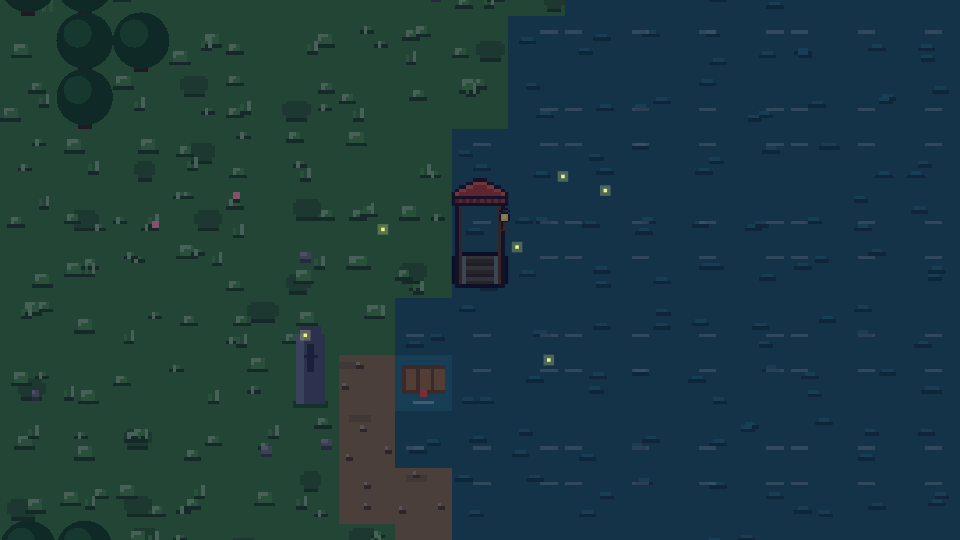
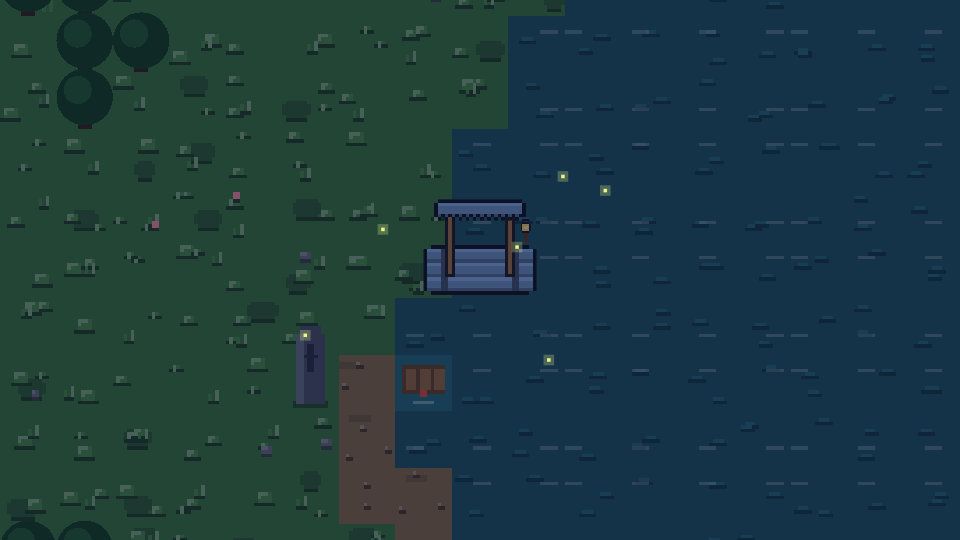
fix(cozy): balsa ancha con toldo bajo y jinete sentado al pescar
- vida_balsa pasa a 32x16: tres troncos largos atados, mas ancha que alta.
- El techo es un toldo de tela plano (vida_raft_roof 32x6) sobre dos
  postes cortos (vida_raft_posts); el farol cuelga del poste derecho.
- Balsa y toldo usan sprites neutros teñidos con modulate: la pintura
  conserva su color (azul queda azul) y sin pintura se ven madera y tela.
- Pescando desde la balsa el jinete se sienta bajo el toldo (pose
  derivada del sprite del heroe); navegando queda de pie delante.
- Icono del toldo en el panel BALSA; preview cozy_raft_decor regenerada.

Changed region(s): [[0.4375, 0.3259, 0.5625, 0.563]]

diff --git a/lib/features/world/presentation/map/cozy_layer.dart b/lib/features/world/presentation/map/cozy_layer.dart
@@ -47,46 +47,53 @@ class CozyLayer {
     }
   }
 
-  /// The raft sprite [raft] at (x, y) (centre) with the decorations of
-  /// [life]: paint tint, roof above and lantern at the corner.
+  /// The raft deck [raft] (32 x 16, two tiles wide) centred on (x, y),
+  /// tinted with the wood colour or the paint of [life]. The sprite is
+  /// drawn in light neutral shades and tinted with `modulate`, so a
+  /// painted raft keeps the paint's hue (blue stays blue). Without an
+  /// awning the lantern sits at the deck's corner.
   void drawRaft(Canvas c, ui.Image raft, double x, double y, double bob,
       LifeSkills? life) {
-    final paint = life == null ? null : CozyRules.paintOf(life);
-    final p = SpriteCatalog.pixelPaint();
-    if (paint != null) {
-      p.colorFilter = ui.ColorFilter.mode(
-          CozyPalette.paints[paint % CozyPalette.paints.length],
-          BlendMode.modulate);
-    }
-    _img(c, raft, Rect.fromLTWH(x - ts / 2, y - ts / 2 + bob, ts, ts), p);
-    // With a roof the lantern hangs from its post ([drawRaftRoof]).
+    _img(c, raft, Rect.fromLTWH(x - ts, y - ts / 2 + bob, ts * 2, ts),
+        _tint(_paint(life) ?? CozyPalette.wood));
     if (life == null || CozyRules.hasRoof(life)) return;
     if (CozyRules.hasLantern(life)) {
       if (icon('raft_lantern') case final im?) {
-        _img(c, im, Rect.fromLTWH(x + 2, y - ts + 2 + bob, ts / 2, ts / 2),
+        _img(c, im, Rect.fromLTWH(x + 6, y - ts + 1 + bob, ts / 2, ts / 2),
             SpriteCatalog.pixelPaint());
       }
     }
   }
 
-  /// The roof of the raft centred on (x, y), drawn after the rider so
-  /// they sit under it. The sprite is 16 x 32: the slab on top and two
-  /// posts that stand on the deck's front corners, so roof and deck read
-  /// as one object; the lantern hangs from the right post.
+  /// The awning of the raft centred on (x, y): a low flat cloth on two
+  /// short posts standing on the deck, the lantern hanging from the
+  /// right post. Drawn after a seated rider (they sit under it) and
+  /// before a standing one (they stand in front of it).
   void drawRaftRoof(
       Canvas c, double x, double y, double bob, LifeSkills? life) {
     if (life == null || !CozyRules.hasRoof(life)) return;
+    final p = SpriteCatalog.pixelPaint();
+    if (icon('raft_posts') case final im?) {
+      _img(c, im, Rect.fromLTWH(x - ts, y - 16 + bob, ts * 2, 18), p);
+    }
     if (icon('raft_roof') case final im?) {
-      _img(c, im, Rect.fromLTWH(x - ts / 2, y + 5 - ts * 2 + bob, ts, ts * 2),
-          SpriteCatalog.pixelPaint());
+      _img(c, im, Rect.fromLTWH(x - ts, y - 20 + bob, ts * 2, 6),
+          _tint(_paint(life) ?? CozyPalette.cloth));
     }
     if (CozyRules.hasLantern(life)) {
       if (icon('raft_lantern') case final im?) {
-        _img(c, im, Rect.fromLTWH(x + 3, y - 18 + bob, ts / 2, ts / 2),
-            SpriteCatalog.pixelPaint());
+        _img(c, im, Rect.fromLTWH(x + 9, y - 15 + bob, ts / 2, ts / 2), p);
       }
     }
   }
+
+  static Color? _paint(LifeSkills? life) {
+    final i = life == null ? null : CozyRules.paintOf(life);
+    return i == null ? null : CozyPalette.paints[i % CozyPalette.paints.length];
+  }
+
+  static Paint _tint(Color color) => SpriteCatalog.pixelPaint()
+    ..colorFilter = ui.ColorFilter.mode(color, BlendMode.modulate);
 
   /// Farm decorations of [town] (map origin [ox], [oy] in tiles).
   void drawDecor(Canvas c, TownState town, int ox, int oy) {

diff --git a/test/features/world/cozy_preview_test.dart b/test/features/world/cozy_preview_test.dart
@@ -144,18 +144,19 @@ void main() {
     expect(CozyRules.hasRoof(life), isTrue);
   });
 
-  testWidgets('map: roofed raft is one object, with and without rider',
-      (tester) async {
+  testWidgets('map: wide raft, awning, seated rider fishing', (tester) async {
     final sprites = await _sprites(tester);
     if (sprites == null) return;
     final cozy = CozyLayer((id) => sprites.lifeIcon(id, ''));
     final actors = ActorPainter(sprites);
     final raft = sprites.lifeIcon('balsa', '')!;
-    final roof = sprites.lifeIcon('raft_roof', '')!;
-    expect((roof.width, roof.height), (16, 32));
-    // Water strip, then four rafts: bare, docked (roof + lantern + paint),
-    // ridden (same decorations) and ridden while moving.
-    const w = 160.0, h = 56.0, scale = 6.0;
+    // Two tiles wide, one tall: a raft, not a stall.
+    expect((raft.width, raft.height), (32, 16));
+    expect(sprites.lifeIcon('raft_roof', '')!.width, 32);
+    expect(sprites.lifeIcon('raft_posts', ''), isNotNull);
+    // Water strip, then: bare, docked (awning + lantern + blue paint),
+    // rider seated fishing under the awning, rider sailing.
+    const w = 200.0, h = 48.0, scale = 5.0;
     final rec = ui.PictureRecorder();
     final c = Canvas(rec)..scale(scale);
     c.drawRect(const Rect.fromLTWH(0, 0, w, h),
@@ -163,22 +164,21 @@ void main() {
     final life = LifeSkills(
         raftDecos: const {'lantern', 'roof', 'paint_blue'},
         raftOn: const {'lantern', 'roof', 'paint_blue'});
-    const y = 38.0;
-    void ride(double x, {LifeSkills? deco, bool rider = false,
-        bool moving = false}) {
-      cozy.drawRaft(c, raft, x, y, 0, deco);
-      if (rider) {
+    const y = 32.0;
+    void hero(double x, {required bool seated, required bool moving}) =>
         actors.hero(c,
             classId: 'guerrero', weaponType: null, x: x, y: y - 3, t: 140,
             dir: 1, moving: moving, dead: false, blink: false,
-            showWeapon: false);
-      }
-      cozy.drawRaftRoof(c, x, y, 0, deco);
-    }
-    ride(20);
-    ride(60, deco: life);
-    ride(100, deco: life, rider: true);
-    ride(140, deco: life, rider: true, moving: true);
+            showWeapon: false, seated: seated);
+    cozy.drawRaft(c, raft, 25, y, 0, null);
+    cozy.drawRaft(c, raft, 75, y, 0, life);
+    cozy.drawRaftRoof(c, 75, y, 0, life);
+    cozy.drawRaft(c, raft, 125, y, 0, life);
+    hero(125, seated: true, moving: false);
+    cozy.drawRaftRoof(c, 125, y, 0, life);
+    cozy.drawRaft(c, raft, 175, y, 0, life);
+    cozy.drawRaftRoof(c, 175, y, 0, life);
+    hero(175, seated: false, moving: true);
     await _picShot(tester, rec.endRecording(), (w * scale).round(),
         (h * scale).round(), 'cozy_raft_decor');
     expect(tester.takeException(), isNull);

diff --git a/lib/features/world/presentation/map/actor_painter.dart b/lib/features/world/presentation/map/actor_painter.dart
@@ -26,6 +26,9 @@ class ActorPainter {
     ..strokeWidth = 1
     ..isAntiAlias = false;
   final _sprite = SpriteCatalog.pixelPaint();
+
+  /// Px the body drops when seated.
+  static const _sit = 5.0;
   final _texts = <(String, int, double), TextPainter>{};
 
   static const _shadow = Color(0x66000000);
@@ -102,6 +105,7 @@ class ActorPainter {
     String? ascensionId,
     WeaponLook? look,
     bool showWeapon = true,
+    bool seated = false,
   }) {
     final img = sprites.heroFor(classId, ascensionId);
     c.save();
@@ -120,7 +124,19 @@ class ActorPainter {
     // Aura de la ascensión (docs/specs/ascension.md § 5).
     if (!dead) paintAscensionAura(c, ascensionId, sprites: sprites, t: t);
     c.translate(0, -bob.toDouble());
-    if (img != null) c.drawImage(img, const Offset(-7, -17), _sprite);
+    if (img != null && seated && !dead) {
+      // Seated (fishing on the raft): the legs fold, so the body drops
+      // [_sit] px over the feet. Derived from the hero sprite, so every
+      // class and ascension sits without extra art.
+      final w = img.width.toDouble(), h = img.height.toDouble();
+      c.drawImageRect(img, Rect.fromLTWH(0, 0, w, h - _sit - 2),
+          Rect.fromLTWH(-7, -17 + _sit, w, h - _sit - 2), _sprite);
+      c.drawImageRect(img, Rect.fromLTWH(0, h - 2, w, 2),
+          Rect.fromLTWH(-7, -17 + h - 2, w, 2), _sprite);
+      c.translate(0, _sit);
+    } else if (img != null) {
+      c.drawImage(img, const Offset(-7, -17), _sprite);
+    }
     // Con una herramienta de vida en la mano no se ve el arma.
     if (showWeapon) {
       WeaponOverlay.draw(c, classId, weaponType, look: look, time: t / 1000);

diff --git a/lib/features/world/presentation/map/map_game.dart b/lib/features/world/presentation/map/map_game.dart
@@ -1287,7 +1287,7 @@ class MapGame extends Game {
           (mine
               ? controller.activeTool != null
               : p.fishLine != null || controller.nearSoilAt(px, py));
-      void hero(double x, double y) => actors.hero(c,
+      void hero(double x, double y, {bool seated = false}) => actors.hero(c,
           classId: p.profile.classId,
           weaponType: weapon?.type,
           look: p.profile.equippedItem == null
@@ -1301,7 +1301,8 @@ class MapGame extends Game {
           dead: p.hp <= 0,
           blink: grace && p.hp > 0,
           ascensionId: p.profile.ascension.id,
-          showWeapon: !toolOut);
+          showWeapon: !toolOut,
+          seated: seated);
       if (fall != null && fq != null) {
         if (fq < 0.5) {
           // Se achica y se desvanece donde cayó.
@@ -1350,10 +1351,14 @@ class MapGame extends Game {
       add(py, () {
         // On a raft (fishing.md § 15): the logs under the hero.
         if (raft) _drawRaft(c, px, py + 3, t, life: p.profile.life);
-        hero(px, py);
-        if (raft) {
+        // Fishing from the raft the rider sits under the awning; sailing
+        // they stand in front of it (cozy_life.md § 1).
+        final sit = raft && line != null;
+        if (raft && !sit) {
           cozy.drawRaftRoof(c, px, py + 3, _bob(t), p.profile.life);
         }
+        hero(px, py, seated: sit);
+        if (sit) cozy.drawRaftRoof(c, px, py + 3, _bob(t), p.profile.life);
         // Cerca de la huerta sale la azada equipada (farming.md § 4).
         if (line == null && toolOut) {
           final face = mine ? controller.local.fx : p.dir;

diff --git a/lib/features/world/presentation/panels/raft_deco_cells.dart b/lib/features/world/presentation/panels/raft_deco_cells.dart
@@ -74,5 +74,27 @@ Widget raftDecoIcon(RaftDecoDef d, {double size = 32}) {
       child: LifeIcon('balsa', LifeIconKind.herramienta, size: size),
     );
   }
+  if (d.slot == RaftDecoSlot.roof) {
+    // The awning: tinted cloth over its two posts (as on the map).
+    return SizedBox.square(
+      dimension: size,
+      child: Column(mainAxisAlignment: MainAxisAlignment.center, children: [
+        SizedBox(
+          width: size,
+          height: size * 6 / 32,
+          child: ColorFiltered(
+            colorFilter:
+                const ColorFilter.mode(CozyPalette.cloth, BlendMode.modulate),
+            child: LifeIcon('raft_roof', LifeIconKind.herramienta, size: size),
+          ),
+        ),
+        SizedBox(
+          width: size,
+          height: size * 18 / 32,
+          child: LifeIcon('raft_posts', LifeIconKind.herramienta, size: size),
+        ),
+      ]),
+    );
+  }
   return LifeIcon('raft_${d.id}', LifeIconKind.herramienta, size: size);
 }

diff --git a/lib/features/world/presentation/map/map_themes.dart b/lib/features/world/presentation/map/map_themes.dart
@@ -477,6 +477,9 @@ abstract final class FishingPalette {
 abstract final class CozyPalette {
   static const firefly = Color(0xFFE8F58A);
   static const fireflyGlow = Color(0x44E8F58A);
+  /// Tint of the unpainted raft deck and awning (sprites are neutral).
+  static const wood = Color(0xFFC08A55);
+  static const cloth = Color(0xFFF2E6C2);
   static const paints = [
     Color(0xFFE0857A),
     Color(0xFF8AB4E8),
